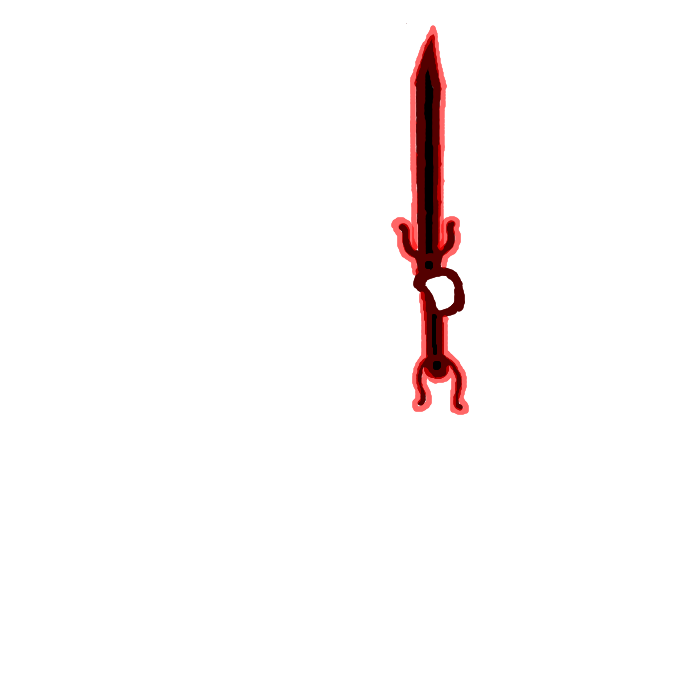
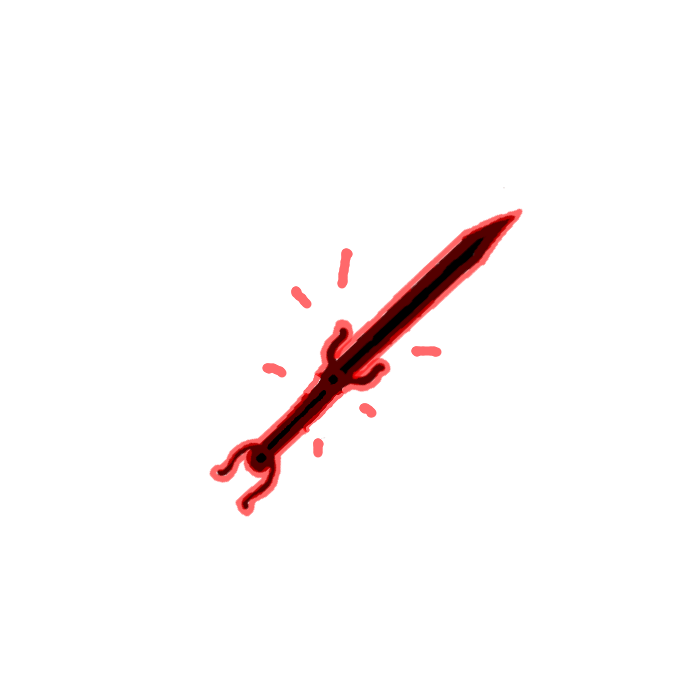
playable

diff --git a/lib/waves/configuration.py b/lib/waves/configuration.py
@@ -95,7 +95,7 @@ class   Wave3(DefaultWave):
         self.title = env.mod.tools.load_img(env, 'waves/wave_3', env.height, env.height)
         self.looting_title = env.mod.tools.load_img(env, 'waves/looting_wave_3', env.height, env.height)
         self.cross = env.mod.objects.Cross.build_class(env, 'waves/cross_wave_3')
-        self.weapons = [env.mod.weapons.Abaddon, env.mod.weapons.Aguni]
+        self.weapons = [env.mod.weapons.DragonHead, env.mod.weapons.DevilBlade]
         self.times = [80, 230, 185]
         self.nb = [2, 1, 1]
         self.next = [0, self.random(1), self.random(2)]

diff --git a/lib/weapons/devil_blade.py b/lib/weapons/devil_blade.py
@@ -8,7 +8,7 @@ class   DevilBlade(DefaultWeapon):
     def build_class(cls, env):
         cls.tools = env.mod.tools
         cls.dimensions = env.player_dimensions
-        cls.img = cls.tools.set_imgs(env.img_folder + 'weapons/', cls.name, cls.dimensions)
+        cls.img = cls.tools.set_imgs(env.img_folder + 'weapons/', cls.name + '_equipped', cls.dimensions)
         cls.img_slash = cls.tools.set_imgs(env.img_folder + 'weapons/', cls.name + '_slash', cls.dimensions)
 
         env.mod.bullets.DevilSlash.pre_build(env)
